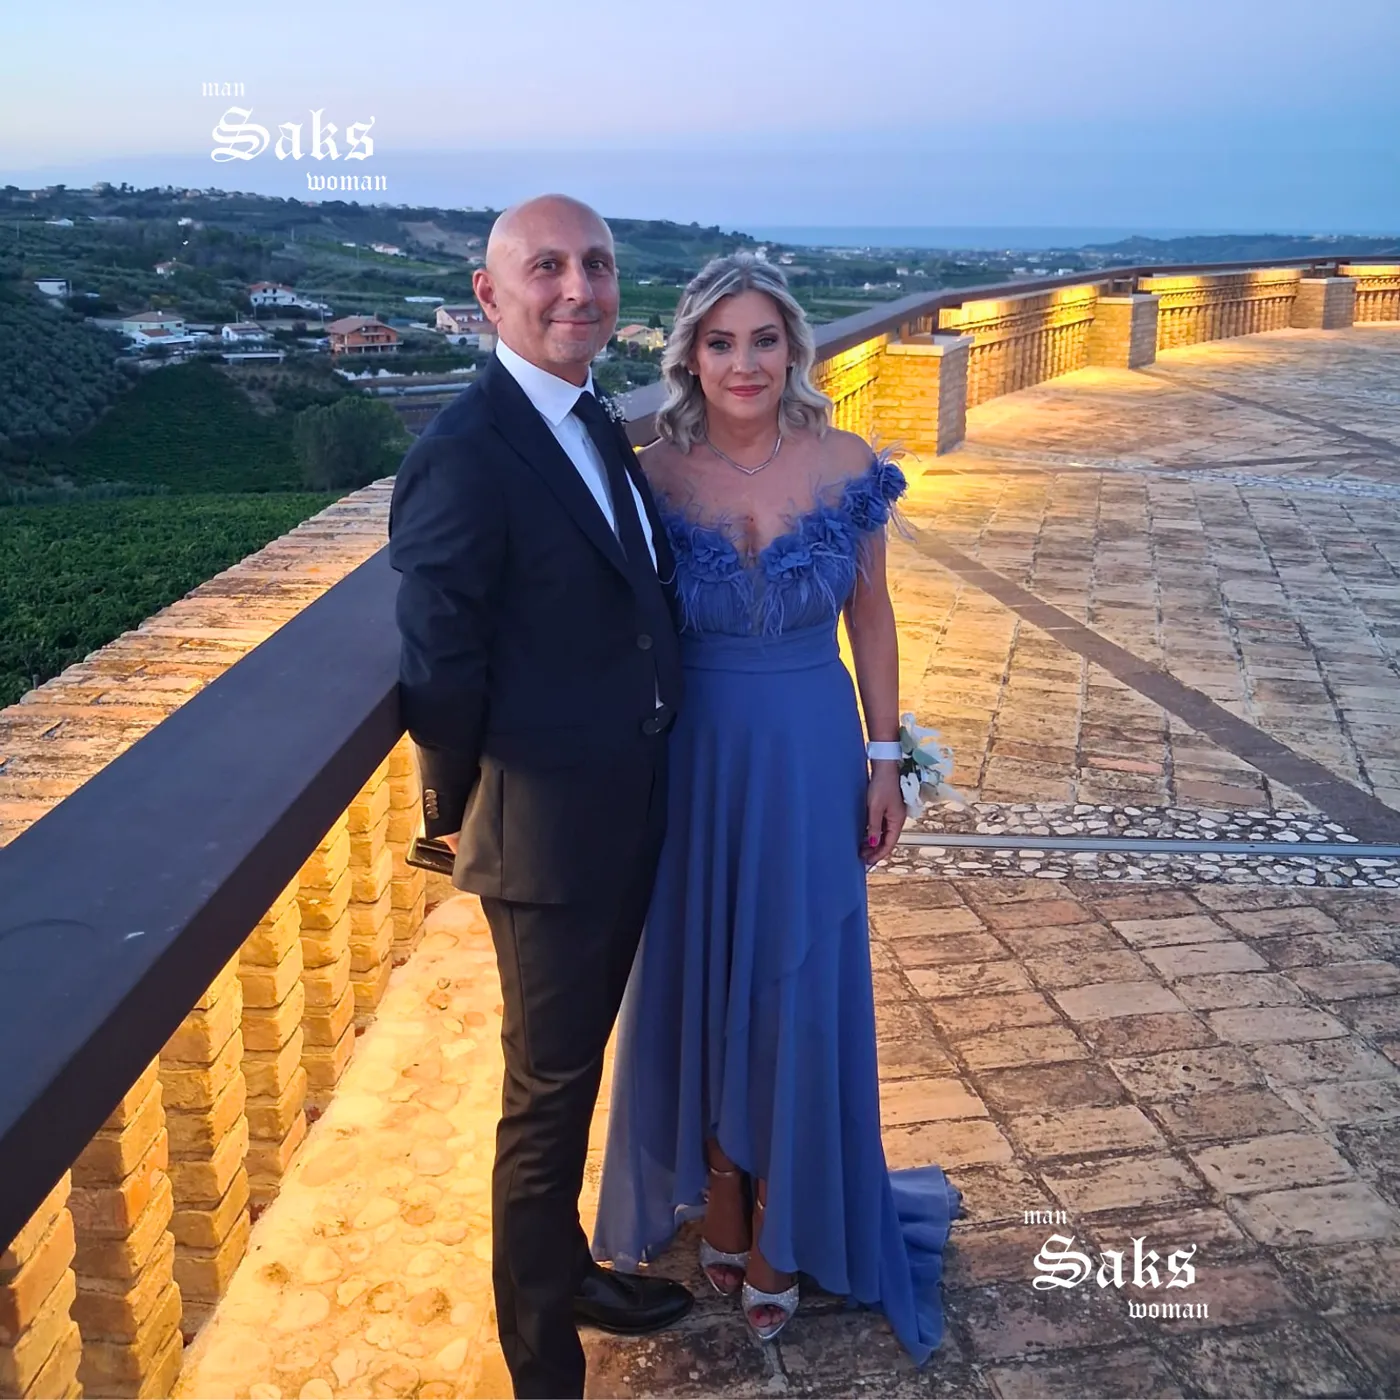
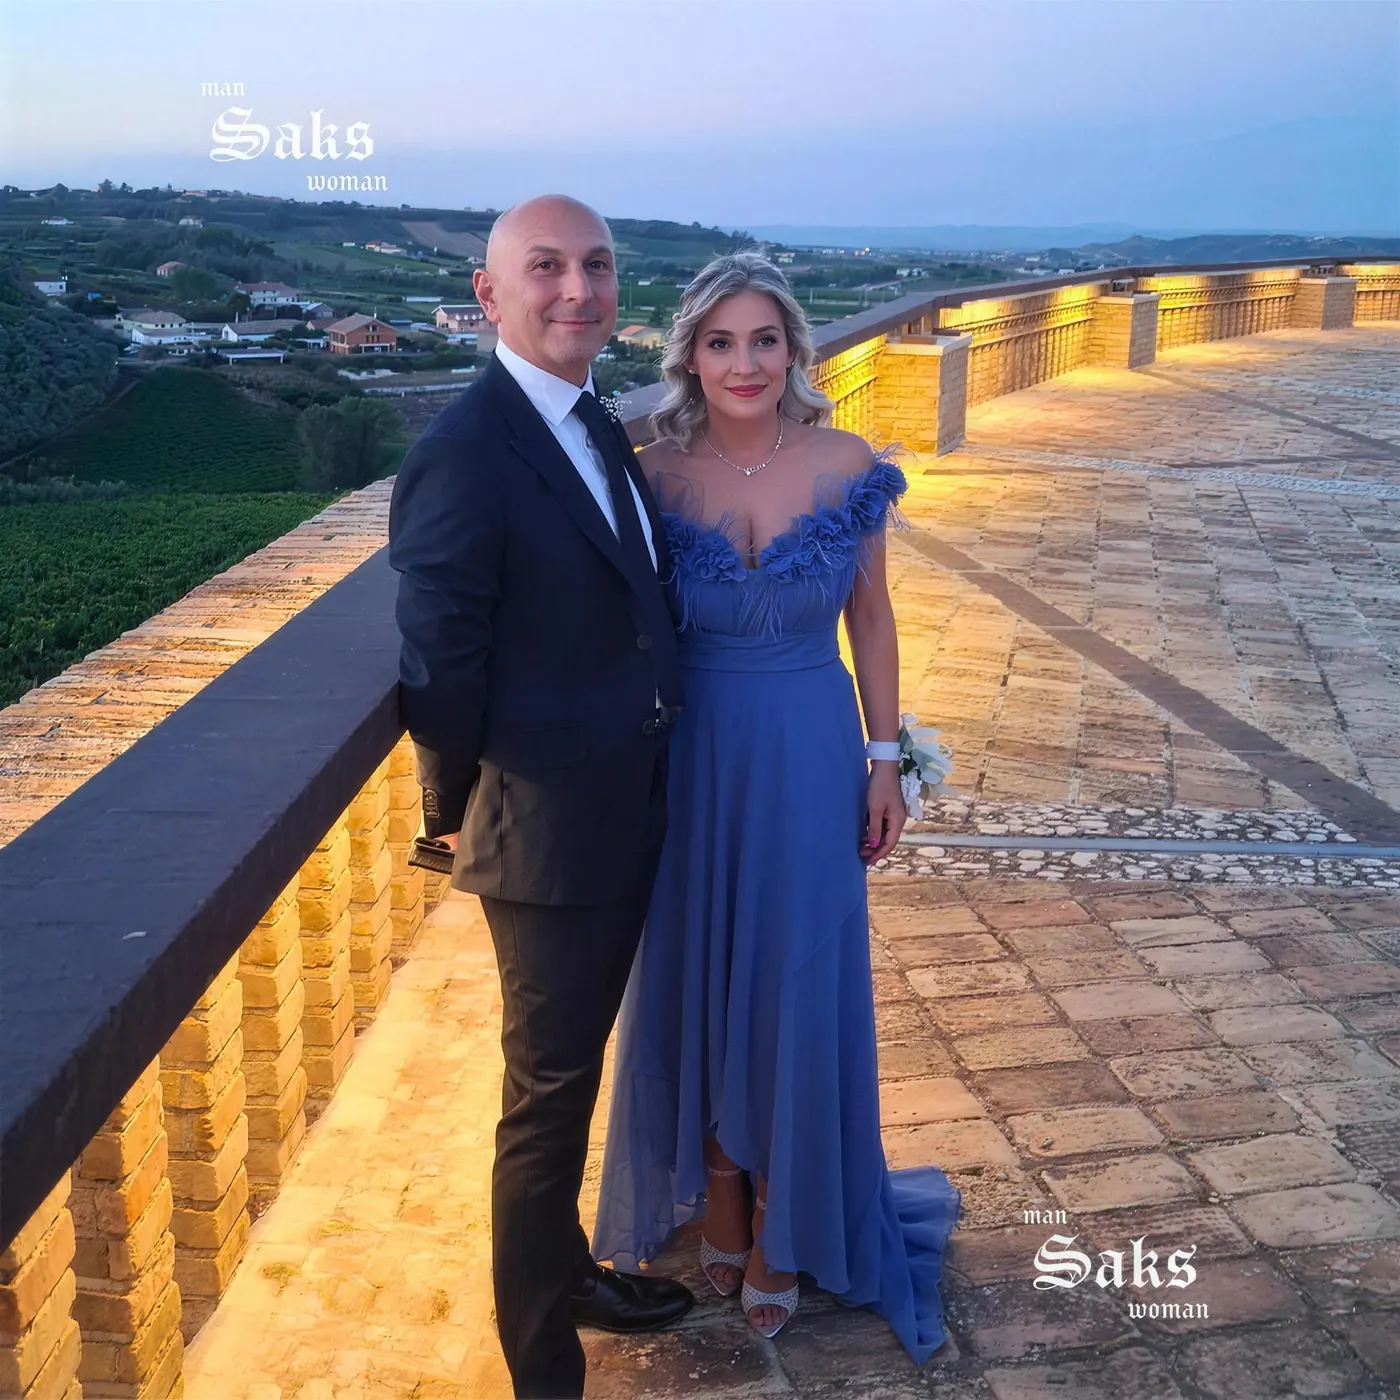
Foto ingrandite con Higgsfield (Bytedance upscale 2K) e ricodificate WebP; versione 2000px per l'essenza

diff --git a/index.html b/index.html
@@ -60,7 +60,7 @@
         <p class="eyebrow"><em>in</em> atelier</p>
         <h2 class="display" data-lines><span class="line"><span><em>dal primo</em> tessuto</span></span><span class="line"><span><em>all'ultimo</em> bottone</span></span></h2>
         <figure class="essenza__media grow">
-          <img src="assets/img/sposi-800.webp" srcset="assets/img/sposi-800.webp 800w, assets/img/sposi.webp 1400w" sizes="100vw" alt="Coppia di sposi vestiti da Saks all'uscita dalla cerimonia" loading="lazy" decoding="async">
+          <img src="assets/img/sposi-800.webp" srcset="assets/img/sposi-800.webp 800w, assets/img/sposi.webp 1400w, assets/img/sposi-2000.webp 2000w" sizes="100vw" alt="Coppia di sposi vestiti da Saks all'uscita dalla cerimonia" loading="lazy" decoding="async">
         </figure>
       </div>
     </section>
